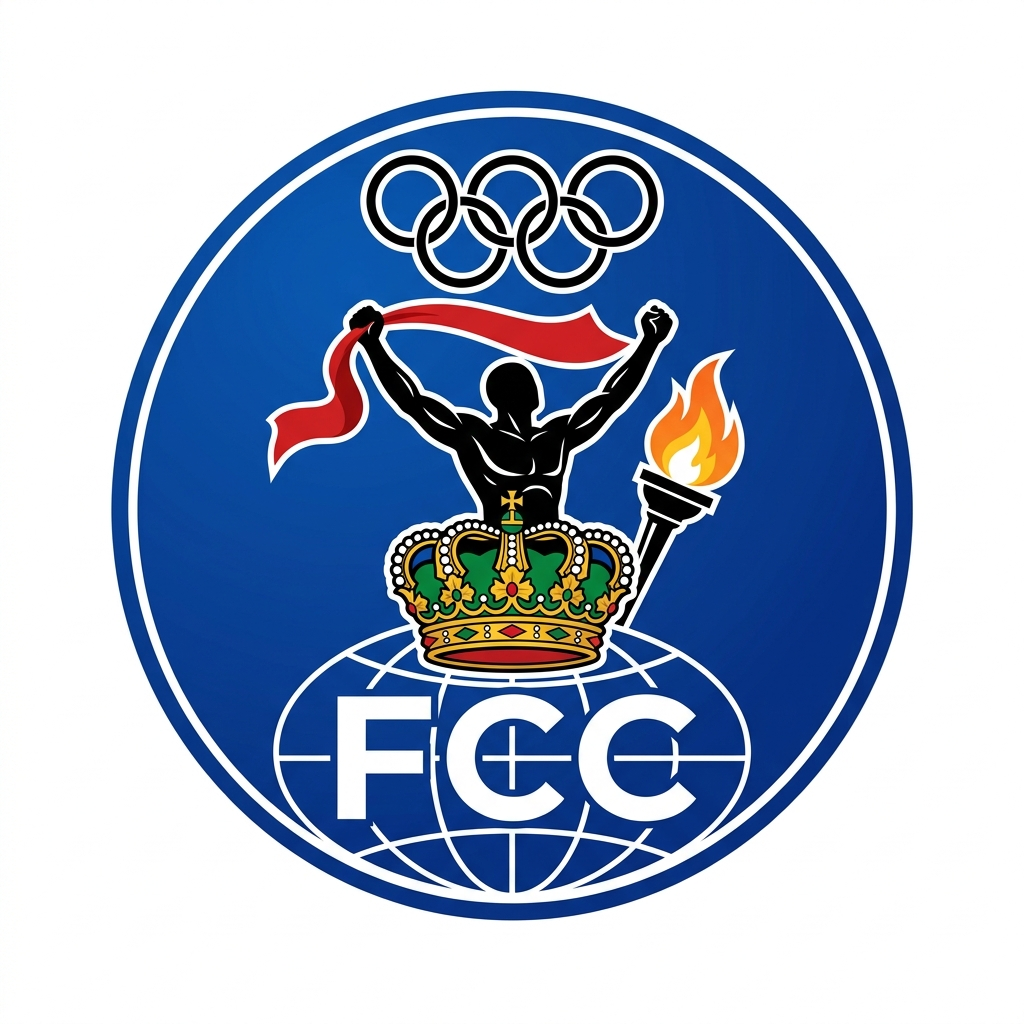
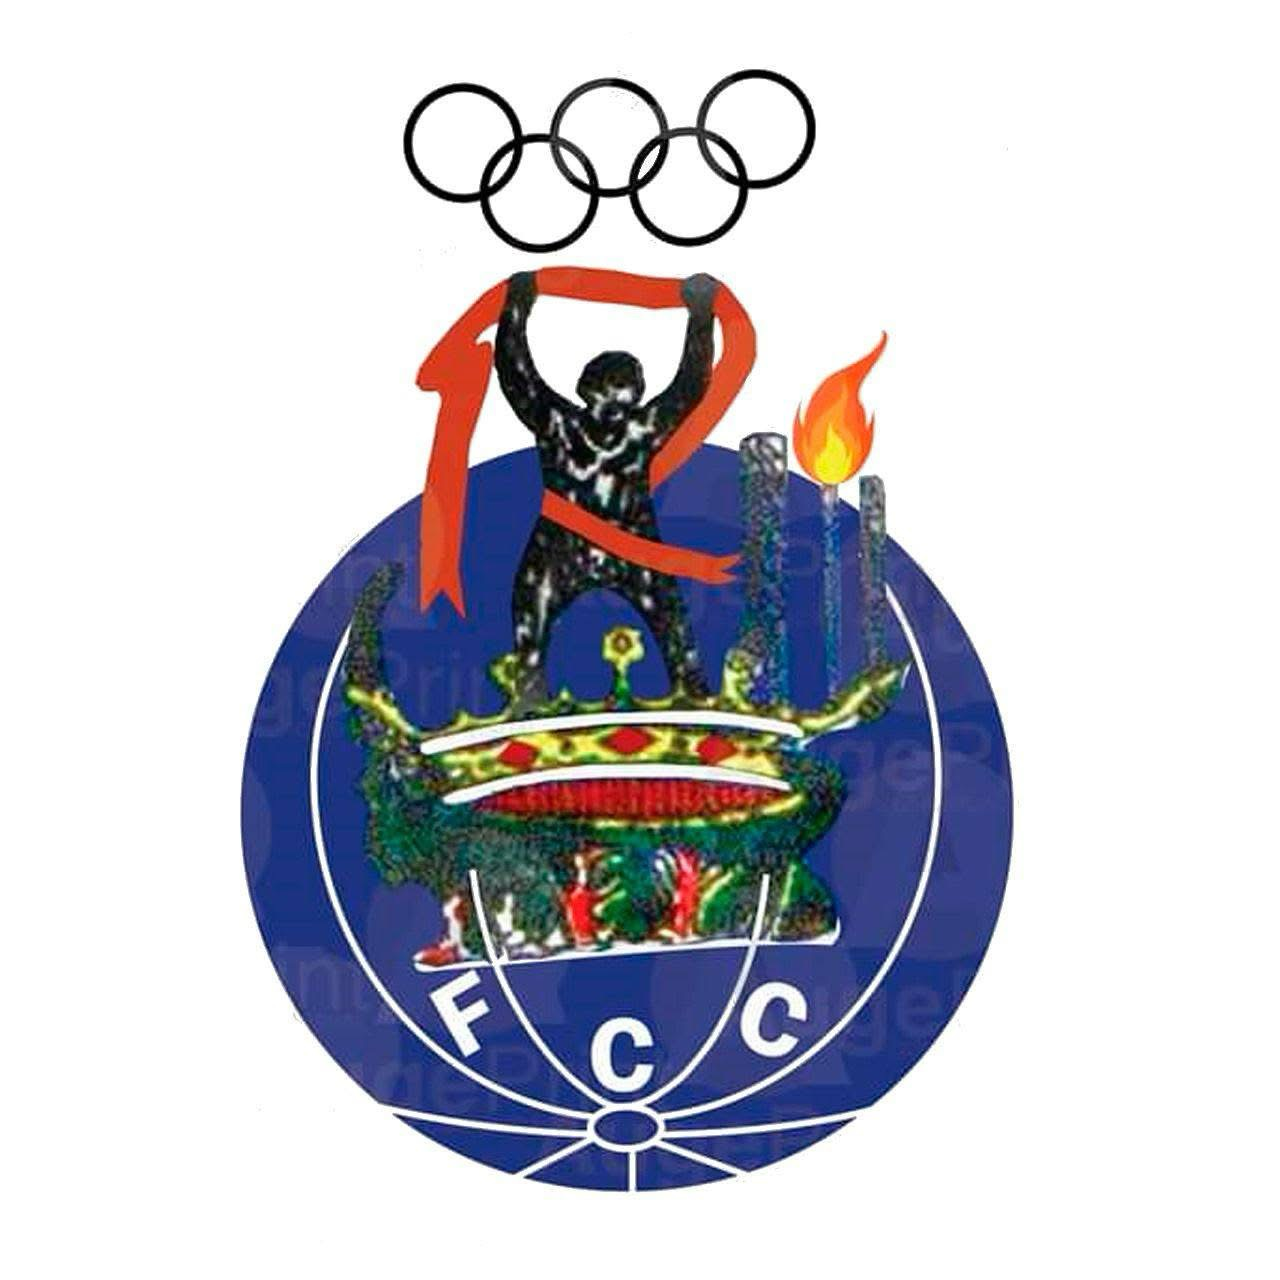
Atualizar emblemas de Caala e Cabinda

diff --git a/src/components/ui/TeamCrest.tsx b/src/components/ui/TeamCrest.tsx
@@ -24,9 +24,8 @@ const CREST_PATHS: Record<string, string> = {
   saosalvador: '/Clubes/SALVADOR DO KONGO.png',
   primeiromaio: '/Clubes/1%C2%A7%20DE%20MAIO.png',
   fcluanda: '/Clubes/LUANDA CITY.png',
-  // Ainda não existem emblemas novos para estes clubes em public/Clubes.
-  cabinda: '/crests/cabinda.png',
-  caala: '/crests/caala.png',
+  cabinda: '/Clubes/FC%20CABINDA.png',
+  caala: '/Clubes/CAALA.png',
 };
 
 export default function TeamCrest({ teamId, size = 40, className = '' }: TeamCrestProps) {
